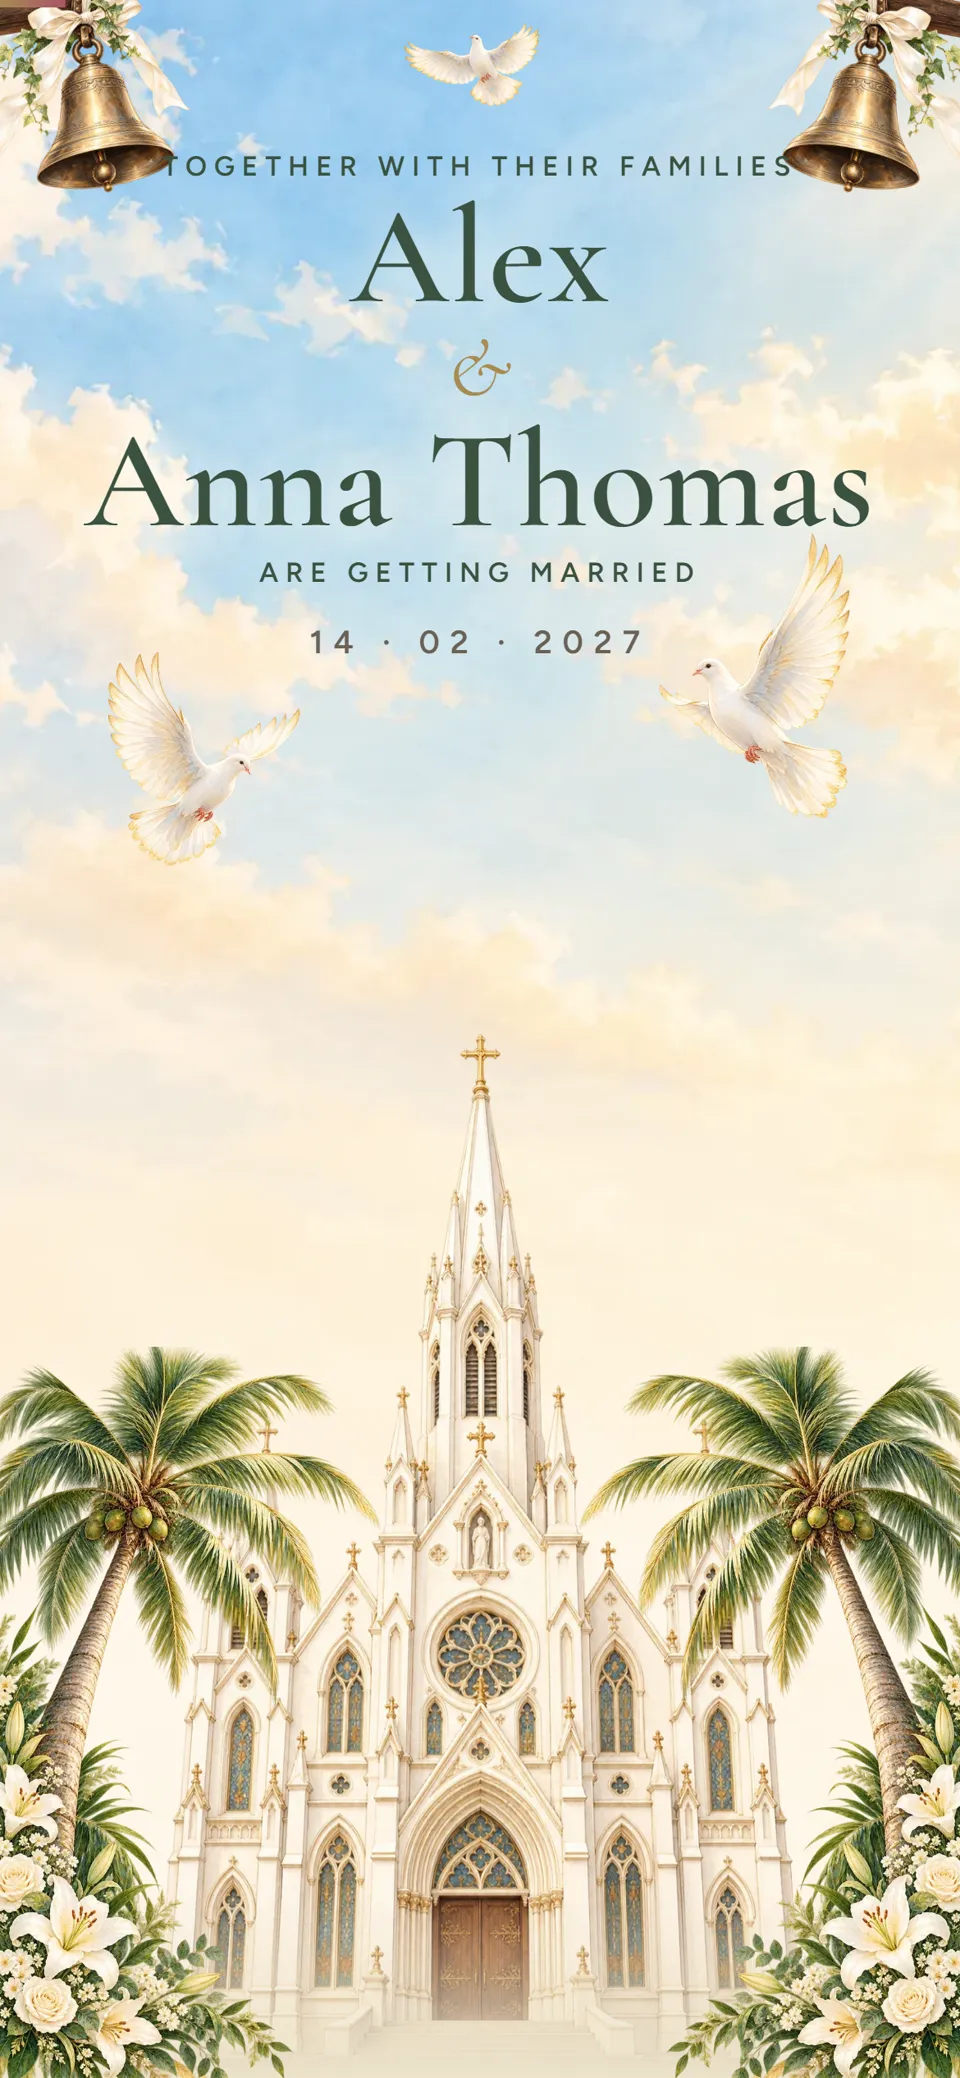
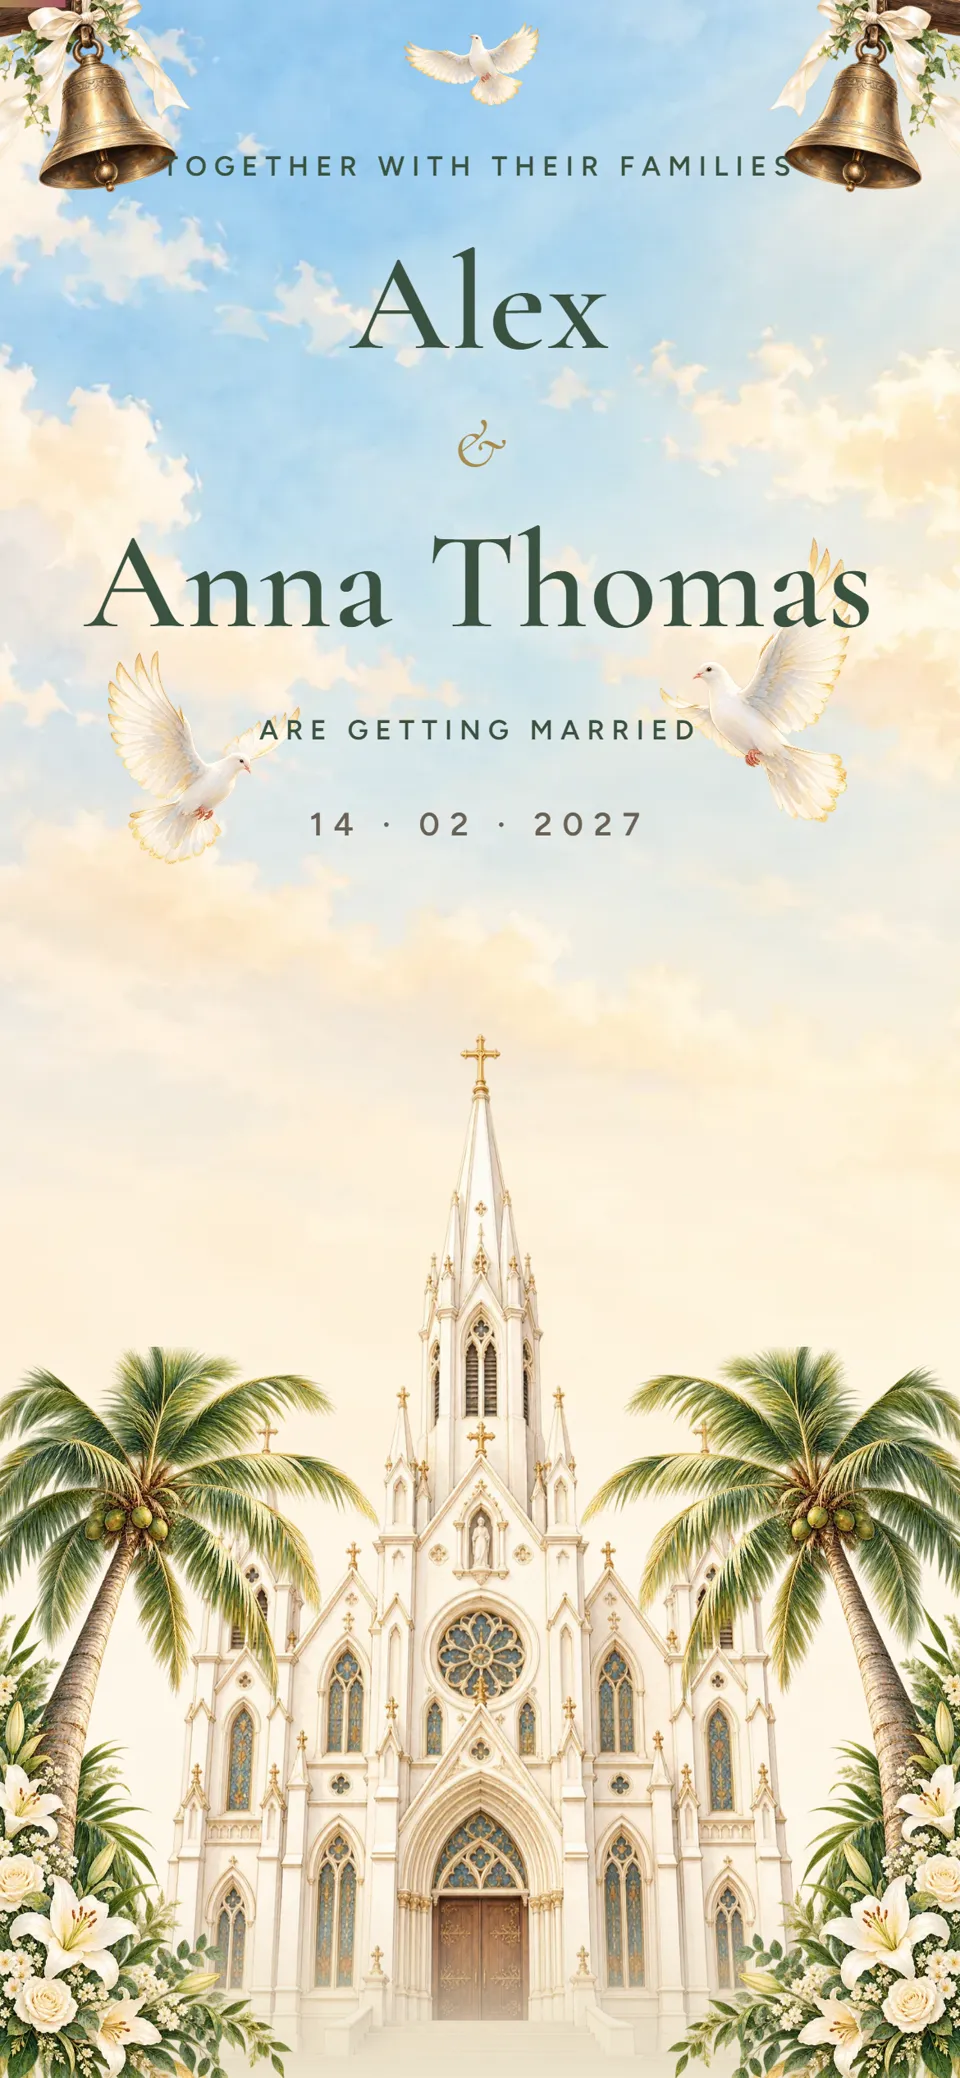
Refresh trial posters without generic guest greetings and document release

diff --git a/docs/templates/signature-trial.md b/docs/templates/signature-trial.md
@@ -1,0 +1,37 @@
+# Three-design signature trial
+
+Scope: Golden Hour, Jasmine Arch and Bells & Blessings. Price remains INR 199 (existing GST handling unchanged). Fonts, section order, photographs, religious images and animation timing are unchanged. Original SVG dividers and monogram outlines plus scoped decorative colour changes are defined by `shared/signature-variants.mjs`.
+
+| Design | Previous version | Trial version | Renderer |
+|---|---|---|---|
+| Golden Hour | 55039403-f51d-4988-b68a-6aca3038932d | b14c321b-58ff-4b67-826d-aed5ed89faeb | golden-hour-v2 |
+| Jasmine Arch | d1e1637a-3df8-4a09-ba36-fb6f26f998b5 | 0d4227e7-3865-4db2-b505-efd3a4323ef0 | jasmine-arch-v2 |
+| Bells & Blessings | 5cc03bf2-1132-45ec-99ef-80adbbfaa845 | 99241622-3a0f-4a9d-b65a-de8beebeb57a | christian-editorial-v3 |
+
+Each trial reuses the exact stored schema, defaults and dedicated form questions. The only form-definition change is its poster URL. Immutable archived forms support old drafts after publication and trial drafts after rollback; saving retains the bound version and uses owner/revision/deletion/expiry guards. No customer migration or database schema changes.
+
+Following explicit user feedback, generic preview greetings are no longer automatically populated with “Your Family”. Known captured guest labels are hidden when no guest was supplied, preserving their layout space. Explicit named `to` links still render their greeting. Published customer content is not rewritten. Regenerated posters omit the automatic greeting. Existing production fixes for Bells' nested preview scrolling and name spacing are included as the comparison baseline.
+
+## Verification and evidence
+
+Evidence is stored locally in `work/signature-trial/` (ignored; contains temporary QA state and must not be published).
+
+- `release-tests.txt`: 312 passing targeted tests for variants, original renderers, forms, concurrency guards and six languages, including 108 Cinorev DOM boots.
+- `matrix-results.json`: identical-content comparisons at 390×844 and 1280×720, all six languages, normal and long-name/missing-content cases.
+- `captures/`, `sheets/`, `visual-results.json`, `settled-results.json`, `bells-results.json`: opening and half-viewport captures through footers, paired with original variants. Wait for reveal transitions before comparing geometry; moving birds/bells can have different animation phases.
+- `greeting-results.json`: generic-greeting absence across six languages in five representative designs, plus explicit named greetings. Shared runtime DOM coverage extends to all Cinorev variants.
+- `christian-regression.txt`: nested unpaid preview, reopen, reduced motion and catalog scroll tests at mobile and desktop widths.
+- `poster-results.json`: 320/640/960 WebP variants. Mobile 640-pixel files are 53,760 / 67,976 / 85,354 bytes, respectively. Original fallback posters remain available.
+- `local-customer-flow-results.json`: all three dedicated forms, edited preview, browser save and reload.
+- Production checks must additionally record `verify-customer-flow-results.json`, `live-catalog-results.json` and deployment ID before marking release complete.
+
+Physical iPhone, Safari and Instagram hardware testing is unavailable. Chromium viewport checks do not certify those environments. No real customer payment or external RSVP message is sent during QA.
+
+## Release and rollback
+
+1. Build and deploy renderer support while catalog entries still point to the previous versions. Confirm the deployed commit and assets before publishing.
+2. `node scripts/signature-release-sql.mjs publish` generates guarded SQL in the ignored evidence directory. Each design's version, form and thumbnail change is transactional, with exact previous-version/form-revision guards. Execute only after the deployment is ready.
+3. Verify public catalog, explicit Play, preview → dedicated form → authenticated save, and original-version draft saves. Verify existing published invitation version bindings read-only.
+4. Clean up only the dedicated QA account and its drafts.
+
+For independent rollback, generate `node scripts/signature-release-sql.mjs rollback golden-hour` (or `jasmine-arch`, `christian-bells`). It restores the previous form definition, version and thumbnail in one guarded transaction. The definitions for both versions remain archived, so neither set of drafts changes renderer. Original catalog/form snapshots are in `rollback.json`; new release records are in `releases.json`. Preserve these files securely with the release evidence.
